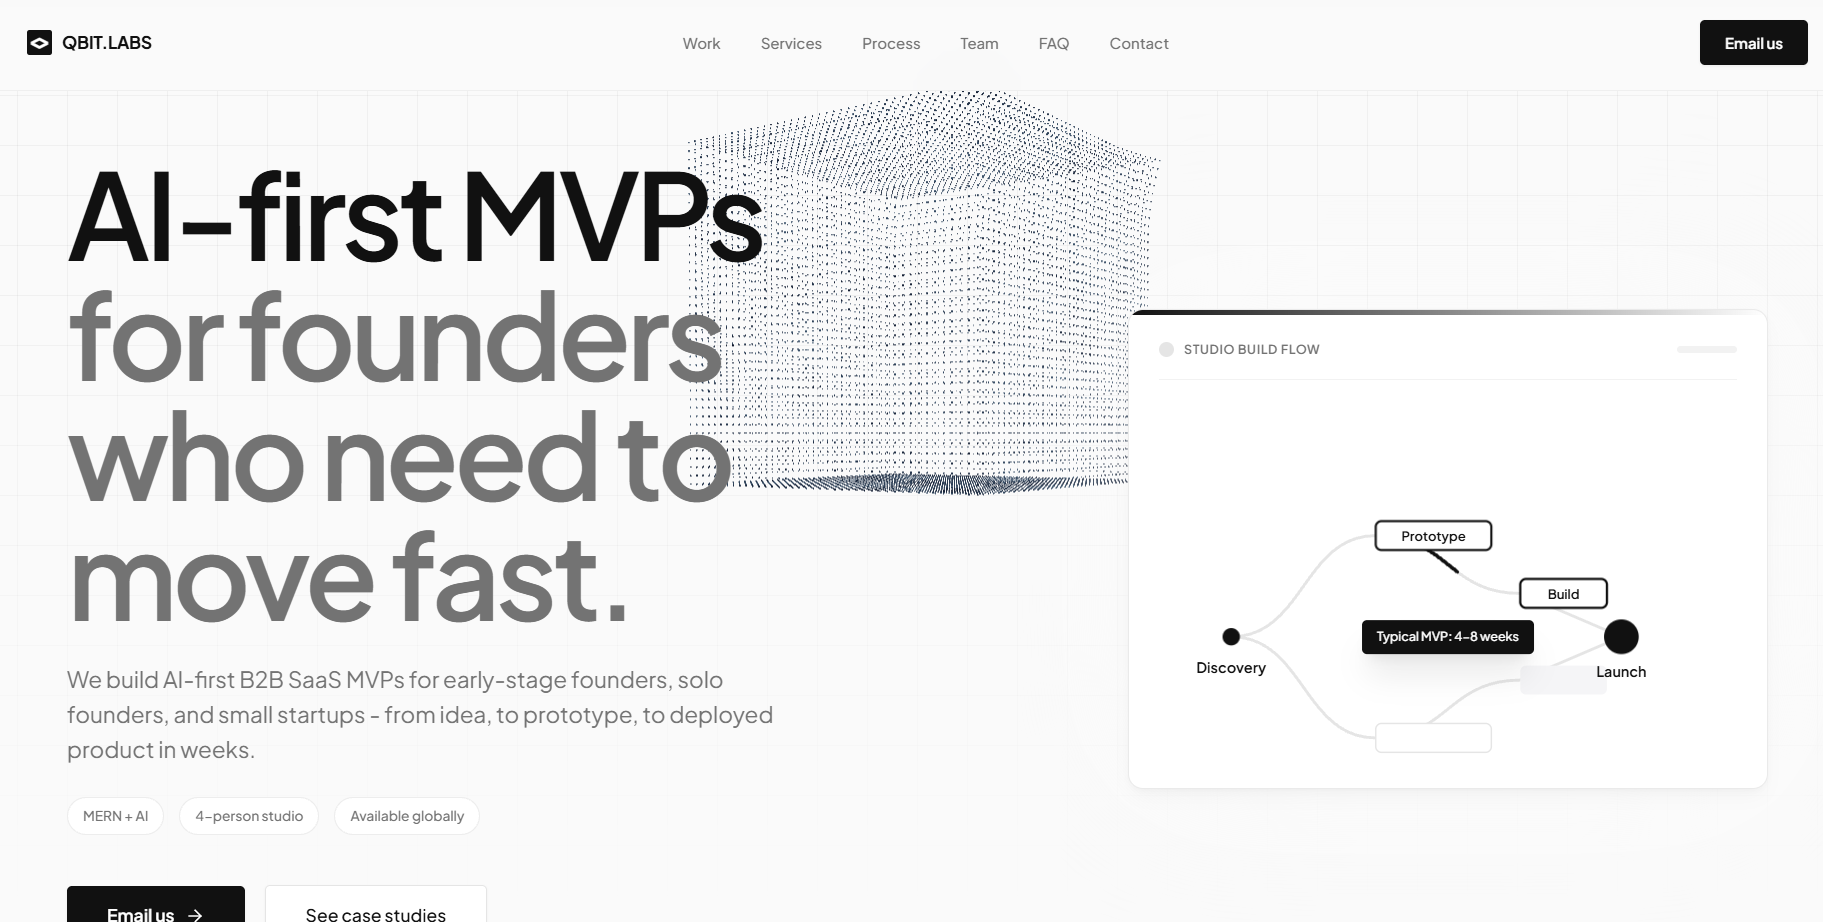
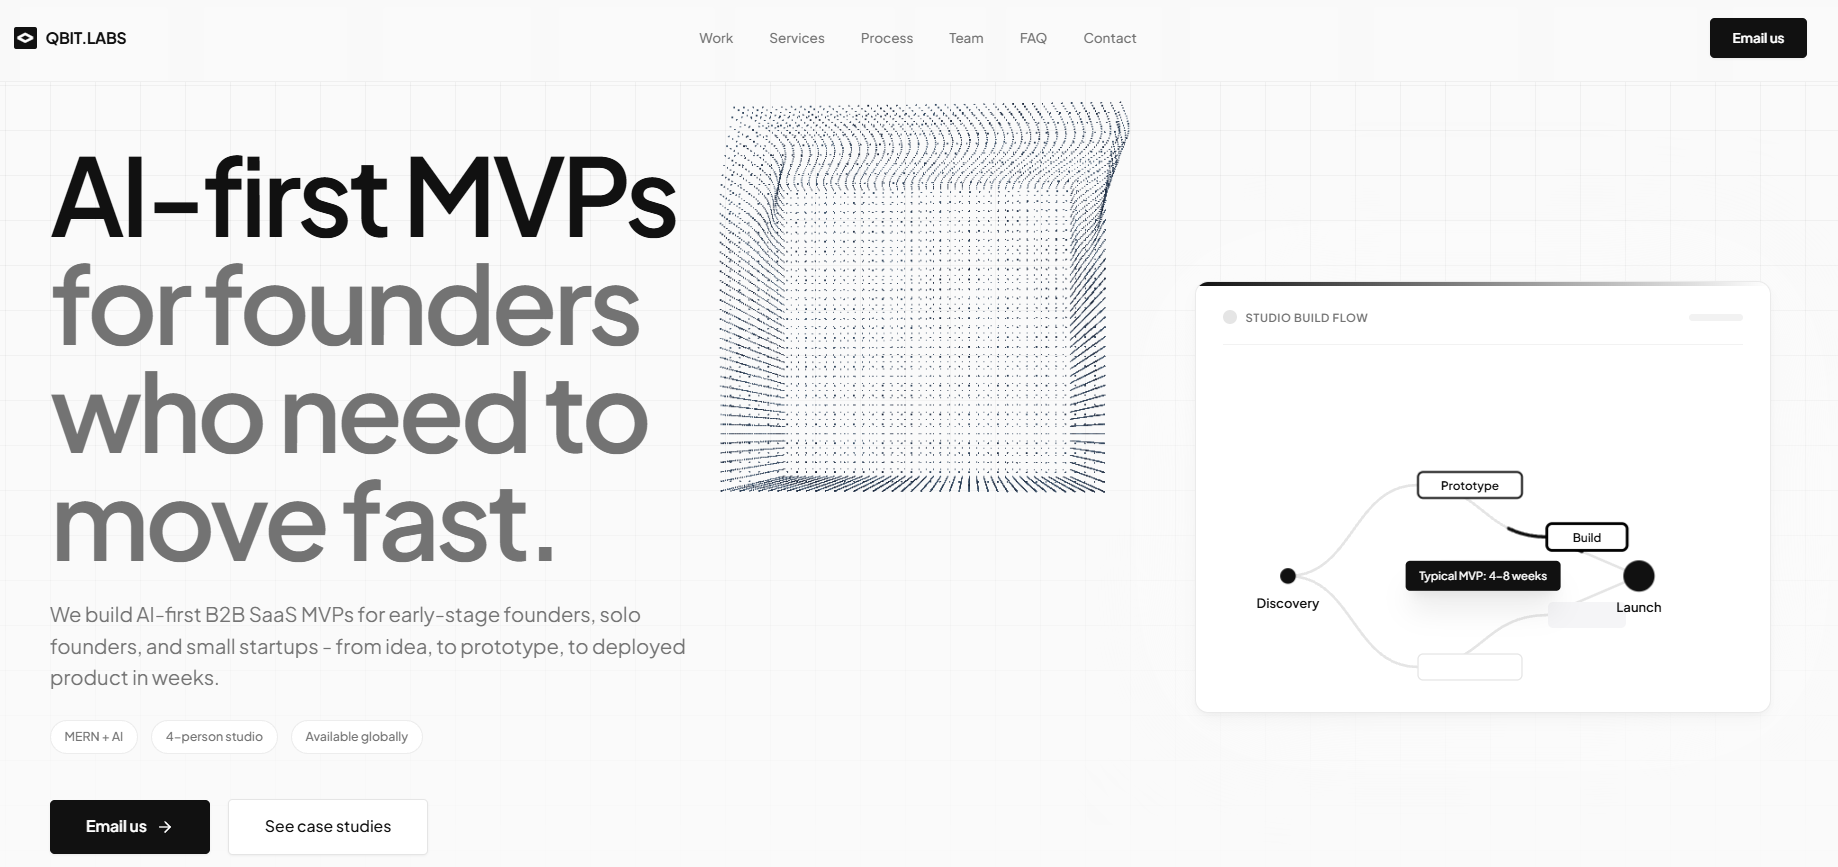
Improved the Usability, Accessibility and UI/UX

diff --git a/index.html b/index.html
@@ -12,6 +12,7 @@
     </script>
     <meta charset="UTF-8" />
     <meta name="viewport" content="width=device-width, initial-scale=1.0" />
+    <link rel="icon" type="image/jpg" sizes="32x32" href="images/favicon-32x32.jpg">
     <title>Qbit Labs | AI-First MVP Studio</title>
     <!-- Fonts -->
     <link rel="preconnect" href="https://fonts.googleapis.com" />
@@ -24,6 +25,8 @@
     <script src="https://cdn.tailwindcss.com"></script>
     <script src="https://unpkg.com/lucide@latest"></script>
     <script src="https://cdnjs.cloudflare.com/ajax/libs/three.js/r134/three.min.js"></script>
+    <script src="https://cdnjs.cloudflare.com/ajax/libs/gsap/3.12.5/gsap.min.js"></script>
+    <script src="https://cdnjs.cloudflare.com/ajax/libs/gsap/3.12.5/ScrollTrigger.min.js"></script>
     <script>
       tailwind.config = {
         theme: {
@@ -430,7 +433,7 @@
           <span class="text-white font-mono text-sm font-bold">&lt;&gt;</span>
         </div>
         <span class="font-sans text-sm font-bold tracking-tight text-obsidian">
-          QBIT.LABS
+          QBIT LABS
         </span>
       </div>
 
@@ -926,7 +929,7 @@
       <!-- LOGOS -->
       <section
         id="services"
-        class="reveal reveal-up py-24 px-6 md:px-12 lg:px-20 border-y border-border/60 bg-white"
+        class="py-24 px-6 md:px-12 lg:px-20 border-y border-border/60 bg-white"
       >
         <div class="max-w-7xl mx-auto">
           <div class="max-w-2xl mb-16">
@@ -1046,7 +1049,7 @@
       </section>
       <section
         id="process"
-        class="reveal reveal-left relative w-full bg-canvas border-b border-border/60 py-24 px-6 md:px-12 lg:px-20"
+        class="relative w-full bg-canvas border-b border-border/60 py-24 px-6 md:px-12 lg:px-20"
       >
         <div class="max-w-7xl mx-auto">
           <div class="max-w-2xl mb-14">
@@ -1066,7 +1069,7 @@
           </div>
 
           <div class="grid grid-cols-1 md:grid-cols-2 xl:grid-cols-4 gap-6 ">
-            <div class="premium-card rounded-xl p-6 bg-yellow-50">
+            <div class="premium-card rounded-xl p-6 ">
               <div class="flex items-center justify-between mb-6 ">
                 <span
                   class="text-[11px] font-semibold tracking-[0.2em] uppercase text-subtle"
@@ -1085,7 +1088,7 @@
                 worth building first.
               </p>
             </div>
-            <div class="premium-card rounded-xl p-6 bg-red-50">
+            <div class="premium-card rounded-xl p-6 ">
               <div class="flex items-center justify-between mb-6 ">
                 <span
                   class="text-[11px] font-semibold tracking-[0.2em] uppercase text-subtle"
@@ -1104,7 +1107,7 @@
                 before any heavy development starts.
               </p>
             </div>
-            <div class="premium-card rounded-xl p-6 bg-green-50">
+            <div class="premium-card rounded-xl p-6">
               <div class="flex items-center justify-between mb-6">
                 <span
                   class="text-[11px] font-semibold tracking-[0.2em] uppercase text-subtle"
@@ -1123,7 +1126,7 @@
                 and make decisions weekly.
               </p>
             </div>
-            <div class="premium-card rounded-xl p-6 bg-blue-50">
+            <div class="premium-card rounded-xl p-6">
               <div class="flex items-center justify-between mb-6">
                 <span
                   class="text-[11px] font-semibold tracking-[0.2em] uppercase text-subtle"
@@ -1143,11 +1146,20 @@
               </p>
             </div>
           </div>
+          <div class="flex justify-center mt-10">
+            <a
+              href="/documents/template.pdf"
+              target="_blank"
+              class="px-5 py-2.5 bg-black text-white border border-border text-sm font-medium rounded shadow-sm transition-all duration-300 ease-out hover:bg-gray-100 hover:border-obsidian/40 hover:text-black hover:shadow-md active:scale-[0.97] focus:outline-none focus:ring-2 focus:ring-obsidian/10 focus:ring-offset-2"
+            >
+              Client Template
+            </a>
+          </div>
         </div>
       </section>
       <section
         id="work"
-        class="reveal reveal-right py-24 px-6 md:px-12 lg:px-20 border-b border-border/60 bg-canvas"
+        class="py-24 px-6 md:px-12 lg:px-20 border-b border-border/60 bg-canvas"
       >
         <div class="max-w-7xl mx-auto">
           <div
@@ -1207,7 +1219,7 @@
 
       <section
         id="why-us"
-        class="reveal reveal-up py-24 px-6 md:px-12 lg:px-20 border-b border-border/60 bg-white"
+        class="py-24 px-6 md:px-12 lg:px-20 border-b border-border/60 bg-white"
       >
         <div class="max-w-7xl mx-auto">
           <div class="max-w-2xl mb-12">
@@ -1227,7 +1239,7 @@
           </div>
 
           <div class="grid grid-cols-1 md:grid-cols-2 xl:grid-cols-5 gap-6">
-            <div class="premium-card rounded-xl p-6 bg-yellow-50">
+            <div class="premium-card rounded-xl p-6">
               <h3 class="font-semibold text-obsidian mb-2">
                 AI + full-stack delivery
               </h3>
@@ -1236,7 +1248,7 @@
                 to end.
               </p>
             </div>
-            <div class="premium-card rounded-xl p-6 bg-red-50">
+            <div class="premium-card rounded-xl p-6">
               <h3 class="font-semibold text-obsidian mb-2">
                 Fast iteration cycles
               </h3>
@@ -1245,7 +1257,7 @@
                 still moving.
               </p>
             </div>
-            <div class="premium-card rounded-xl p-6 bg-green-50">
+            <div class="premium-card rounded-xl p-6">
               <h3 class="font-semibold text-obsidian mb-2">
                 End-to-end MVP execution
               </h3>
@@ -1254,7 +1266,7 @@
                 not just a slice.
               </p>
             </div>
-            <div class="premium-card rounded-xl p-6 bg-violet-50">
+            <div class="premium-card rounded-xl p-6">
               <h3 class="font-semibold text-obsidian mb-2">
                 Clean handoff, no lock-in
               </h3>
@@ -1263,7 +1275,7 @@
                 team can own.
               </p>
             </div>
-            <div class="premium-card rounded-xl p-6 bg-blue-50">
+            <div class="premium-card rounded-xl p-6">
               <h3 class="font-semibold text-obsidian mb-2">
                 Small, focused team
               </h3>
@@ -1277,7 +1289,7 @@
       </section>
       <section
         id="pricing"
-        class="reveal reveal-scale py-24 px-6 md:px-12 lg:px-20 border-b border-border bg-white"
+        class="py-24 px-6 md:px-12 lg:px-20 border-b border-border bg-white"
       >
         <div class="max-w-7xl mx-auto">
           <div class="max-w-2xl mb-16">
@@ -1375,7 +1387,7 @@
 
       <section
         id="faq"
-        class="reveal reveal-left py-24 px-6 md:px-12 lg:px-20 border-b border-border/60 bg-canvas"
+        class="py-24 px-6 md:px-12 lg:px-20 border-b border-border/60 bg-canvas"
       >
         <div class="max-w-4xl mx-auto">
           <div class="mb-12">
@@ -1390,12 +1402,8 @@
             </h2>
           </div>
           <div class="space-y-4" id="faq-accordion">
-  <style>
-    #faq-accordion details { background-color: transparent; }
-    #faq-accordion details[open] { background-color: #e9e9e8; }
-  </style>
 
-  <details class="premium-card rounded-xl p-6 group overflow-hidden relative bg-[#fcf5e9]">
+  <details class="premium-card rounded-xl p-6 group overflow-hidden relative bg-[#F2F0EF]">
     <div class="absolute inset-0 bg-gradient-to-br from-transparent via-transparent to-obsidian/[0.03] opacity-0 group-open:opacity-100 transition-opacity duration-500 pointer-events-none"></div>
     <summary class="cursor-pointer list-none flex items-center justify-between gap-6 font-semibold text-obsidian select-none">
       <span class="group-open:text-obsidian transition-colors duration-300">Who do you work with?</span>
@@ -1411,16 +1419,8 @@
         We work with international early-stage founders, solo founders, and small startups, especially teams building B2B SaaS products with AI inside the workflow.
       </p>
     </div>
-
-
-              <style>
-                @keyframes fadeSlideIn {
-                  from { opacity: 0; transform: translateY(-6px); }
-                  to { opacity: 1; transform: translateY(0); }
-                }
-              </style>
-            </details>
-            <details class="premium-card rounded-xl p-6 group overflow-hidden relative bg-[#fcf5e9]">
+          </details>
+            <details class="premium-card rounded-xl p-6 group overflow-hidden relative bg-[#F2F0EF]">
               <div class="absolute inset-0 bg-gradient-to-br from-transparent via-transparent to-obsidian/[0.03] opacity-0 group-open:opacity-100 transition-opacity duration-500 pointer-events-none"></div>
               <summary class="cursor-pointer list-none flex items-center justify-between gap-6 font-semibold text-obsidian select-none">
                 <span class="group-open:text-obsidian transition-colors duration-300">What does an MVP include?</span>
@@ -1437,7 +1437,7 @@
                 </p>
               </div>
             </details>
-            <details class="premium-card rounded-xl p-6 group overflow-hidden relative bg-[#fcf5e9]">
+            <details class="premium-card rounded-xl p-6 group overflow-hidden relative bg-[#F2F0EF]">
               <div class="absolute inset-0 bg-gradient-to-br from-transparent via-transparent to-obsidian/[0.03] opacity-0 group-open:opacity-100 transition-opacity duration-500 pointer-events-none"></div>
               <summary class="cursor-pointer list-none flex items-center justify-between gap-6 font-semibold text-obsidian select-none">
                 <span class="group-open:text-obsidian transition-colors duration-300">How long does it take?</span>
@@ -1453,7 +1453,7 @@
                 </p>
               </div>
             </details>
-            <details class="premium-card rounded-xl p-6 group overflow-hidden relative bg-[#fcf5e9]">
+            <details class="premium-card rounded-xl p-6 group overflow-hidden relative bg-[#F2F0EF]">
               <div class="absolute inset-0 bg-gradient-to-br from-transparent via-transparent to-obsidian/[0.03] opacity-0 group-open:opacity-100 transition-opacity duration-500 pointer-events-none"></div>
               <summary class="cursor-pointer list-none flex items-center justify-between gap-6 font-semibold text-obsidian select-none">
                 <span class="group-open:text-obsidian transition-colors duration-300">Do you work with non-technical founders?</span>
@@ -1469,7 +1469,7 @@
                 </p>
               </div>
             </details>
-            <details class="premium-card rounded-xl p-6 group overflow-hidden relative bg-[#fcf5e9]">
+            <details class="premium-card rounded-xl p-6 group overflow-hidden relative bg-[#F2F0EF]">
               <div class="absolute inset-0 bg-gradient-to-br from-transparent via-transparent to-obsidian/[0.03] opacity-0 group-open:opacity-100 transition-opacity duration-500 pointer-events-none"></div>
               <summary class="cursor-pointer list-none flex items-center justify-between gap-6 font-semibold text-obsidian select-none">
                 <span class="group-open:text-obsidian transition-colors duration-300">Do we get the source code?</span>
@@ -1485,7 +1485,7 @@
                 </p>
               </div>
             </details>
-            <details class="premium-card rounded-xl p-6 group overflow-hidden relative bg-[#fcf5e9]">
+            <details class="premium-card rounded-xl p-6 group overflow-hidden relative bg-[#F2F0EF]">
               <div class="absolute inset-0 bg-gradient-to-br from-transparent via-transparent to-obsidian/[0.03] opacity-0 group-open:opacity-100 transition-opacity duration-500 pointer-events-none"></div>
               <summary class="cursor-pointer list-none flex items-center justify-between gap-6 font-semibold text-obsidian select-none">
                 <span class="group-open:text-obsidian transition-colors duration-300">Can you add AI features into an existing product?</span>
@@ -1501,19 +1501,13 @@
                 </p>
               </div>
             </details>
-      </p>
-    </div>
-
-
-              
-            </details>
           </div>
         </div>
       </section>
 
       <section
         id="contact"
-        class="reveal reveal-up py-24 px-6 md:px-12 lg:px-20 bg-obsidian text-white relative overflow-hidden"
+        class="py-24 px-6 md:px-12 lg:px-20 bg-obsidian text-white relative overflow-hidden"
       >
         <div
           class="absolute inset-0 opacity-10"
@@ -2244,6 +2238,71 @@
           { threshold: 0.1, rootMargin: "0px 0px -40px 0px" }
         );
         reveals.forEach((el) => observer.observe(el));
+      });
+    </script>
+
+    <script>
+      gsap.registerPlugin(ScrollTrigger);
+
+      const reducedMotion = window.matchMedia('(prefers-reduced-motion: reduce)').matches;
+      if (!reducedMotion) {
+
+        function animateSection(id) {
+          const el = document.getElementById(id);
+          if (!el) return;
+
+          const heading = el.querySelector('.max-w-2xl');
+          const cards = el.querySelectorAll('.premium-card');
+          const details = el.querySelectorAll('details');
+          const items = cards.length ? cards : details.length ? details : [];
+
+          const tl = gsap.timeline({
+            scrollTrigger: {
+              trigger: el,
+              start: 'top 80%',
+              toggleActions: 'play none none none',
+            },
+          });
+
+          if (heading) {
+            const span = heading.querySelector('span');
+            const h2 = heading.querySelector('h2');
+            const p = heading.querySelector('p');
+            if (span) tl.fromTo(span, { y: 20, opacity: 0 }, { y: 0, opacity: 1, duration: 0.6 }, 0);
+            if (h2) tl.fromTo(h2, { y: 30, opacity: 0 }, { y: 0, opacity: 1, duration: 0.7 }, 0.05);
+            if (p) tl.fromTo(p, { y: 20, opacity: 0 }, { y: 0, opacity: 1, duration: 0.6 }, 0.15);
+          }
+
+          if (items.length) {
+            tl.fromTo(
+              items,
+              { y: 40, opacity: 0 },
+              { y: 0, opacity: 1, duration: 0.6, stagger: 0.1 },
+              0.2
+            );
+          }
+        }
+
+        animateSection('services');
+        animateSection('process');
+        animateSection('work');
+        animateSection('why-us');
+        animateSection('pricing');
+        animateSection('faq');
+        animateSection('contact');
+      }
+    </script>
+
+    <script>
+      // FAQ Accordion — close other details when one opens
+      document.querySelectorAll('#faq-accordion details').forEach((detail) => {
+        detail.addEventListener('toggle', () => {
+          if (detail.open) {
+            document.querySelectorAll('#faq-accordion details').forEach((other) => {
+              if (other !== detail) other.open = false;
+            });
+          }
+        });
       });
     </script>
 

diff --git a/README.md b/README.md
@@ -5,6 +5,11 @@
 # <div align="center">Qbit Labs</div>
 ### <div align="center">AI-First MVP Studio</div>
 
+<p align="center">
+  <a href="https://qbitlabs.tech/" target="_blank">
+    <img src="https://img.shields.io/badge/🌐%20Visit%20Live%20Site-qbitlabs.tech-blueviolet?style=for-the-badge&logoColor=white" height="40" />
+  </a>
+</p>
 ---
 
 <p align="center">
@@ -14,10 +19,10 @@
 </p>
 
 <p align="center">
-  <a href="#-about">About</a> •
-  <a href="#-stack">Tech Stack</a> •
-  <a href="#-features">Features</a> •
-  <a href="#-team">Team</a> •
+  <a href="#-about">About</a> |
+  <a href="#-stack">Tech Stack</a> |
+  <a href="#-features">Features</a> |
+  <a href="#-team">Team</a> |
   <a href="#-contact">Contact</a>
 </p>
 
@@ -42,7 +47,7 @@ We specialize in shortening the path from concept to launched product — delive
 | Name | Role |
 |------|------|
 | <img src="images/ayush.jpg" width="60" height="65" style="border-radius:50%; object-fit:cover;" align="center" /> | **Ayush Kumar** — Founder / AI Lead |
-| <img src="images/bibek%202.png" width="65" height="65" style="border-radius:50%; object-fit:cover;" align="center" /> | **Bibek Gupta** — Full Stack Engineer |
+| <img src="images/bibek%202.png" width="65" height="65" style="border-radius:50%; object-fit:cover;" align="center" /> | **Bibek Gupta** — Technical Architect |
 | <img src="images/pratim.jpeg" width="60" height="60" style="border-radius:50%; object-fit:cover;" align="center" /> | **Pratim Pramanik** — ML Engineer |
 | <img src="images/aditya.jpg" width="60" height="60" style="border-radius:50%; object-fit:cover;" align="center" /> | **Aditya Jyoti** — Product Lead |
 